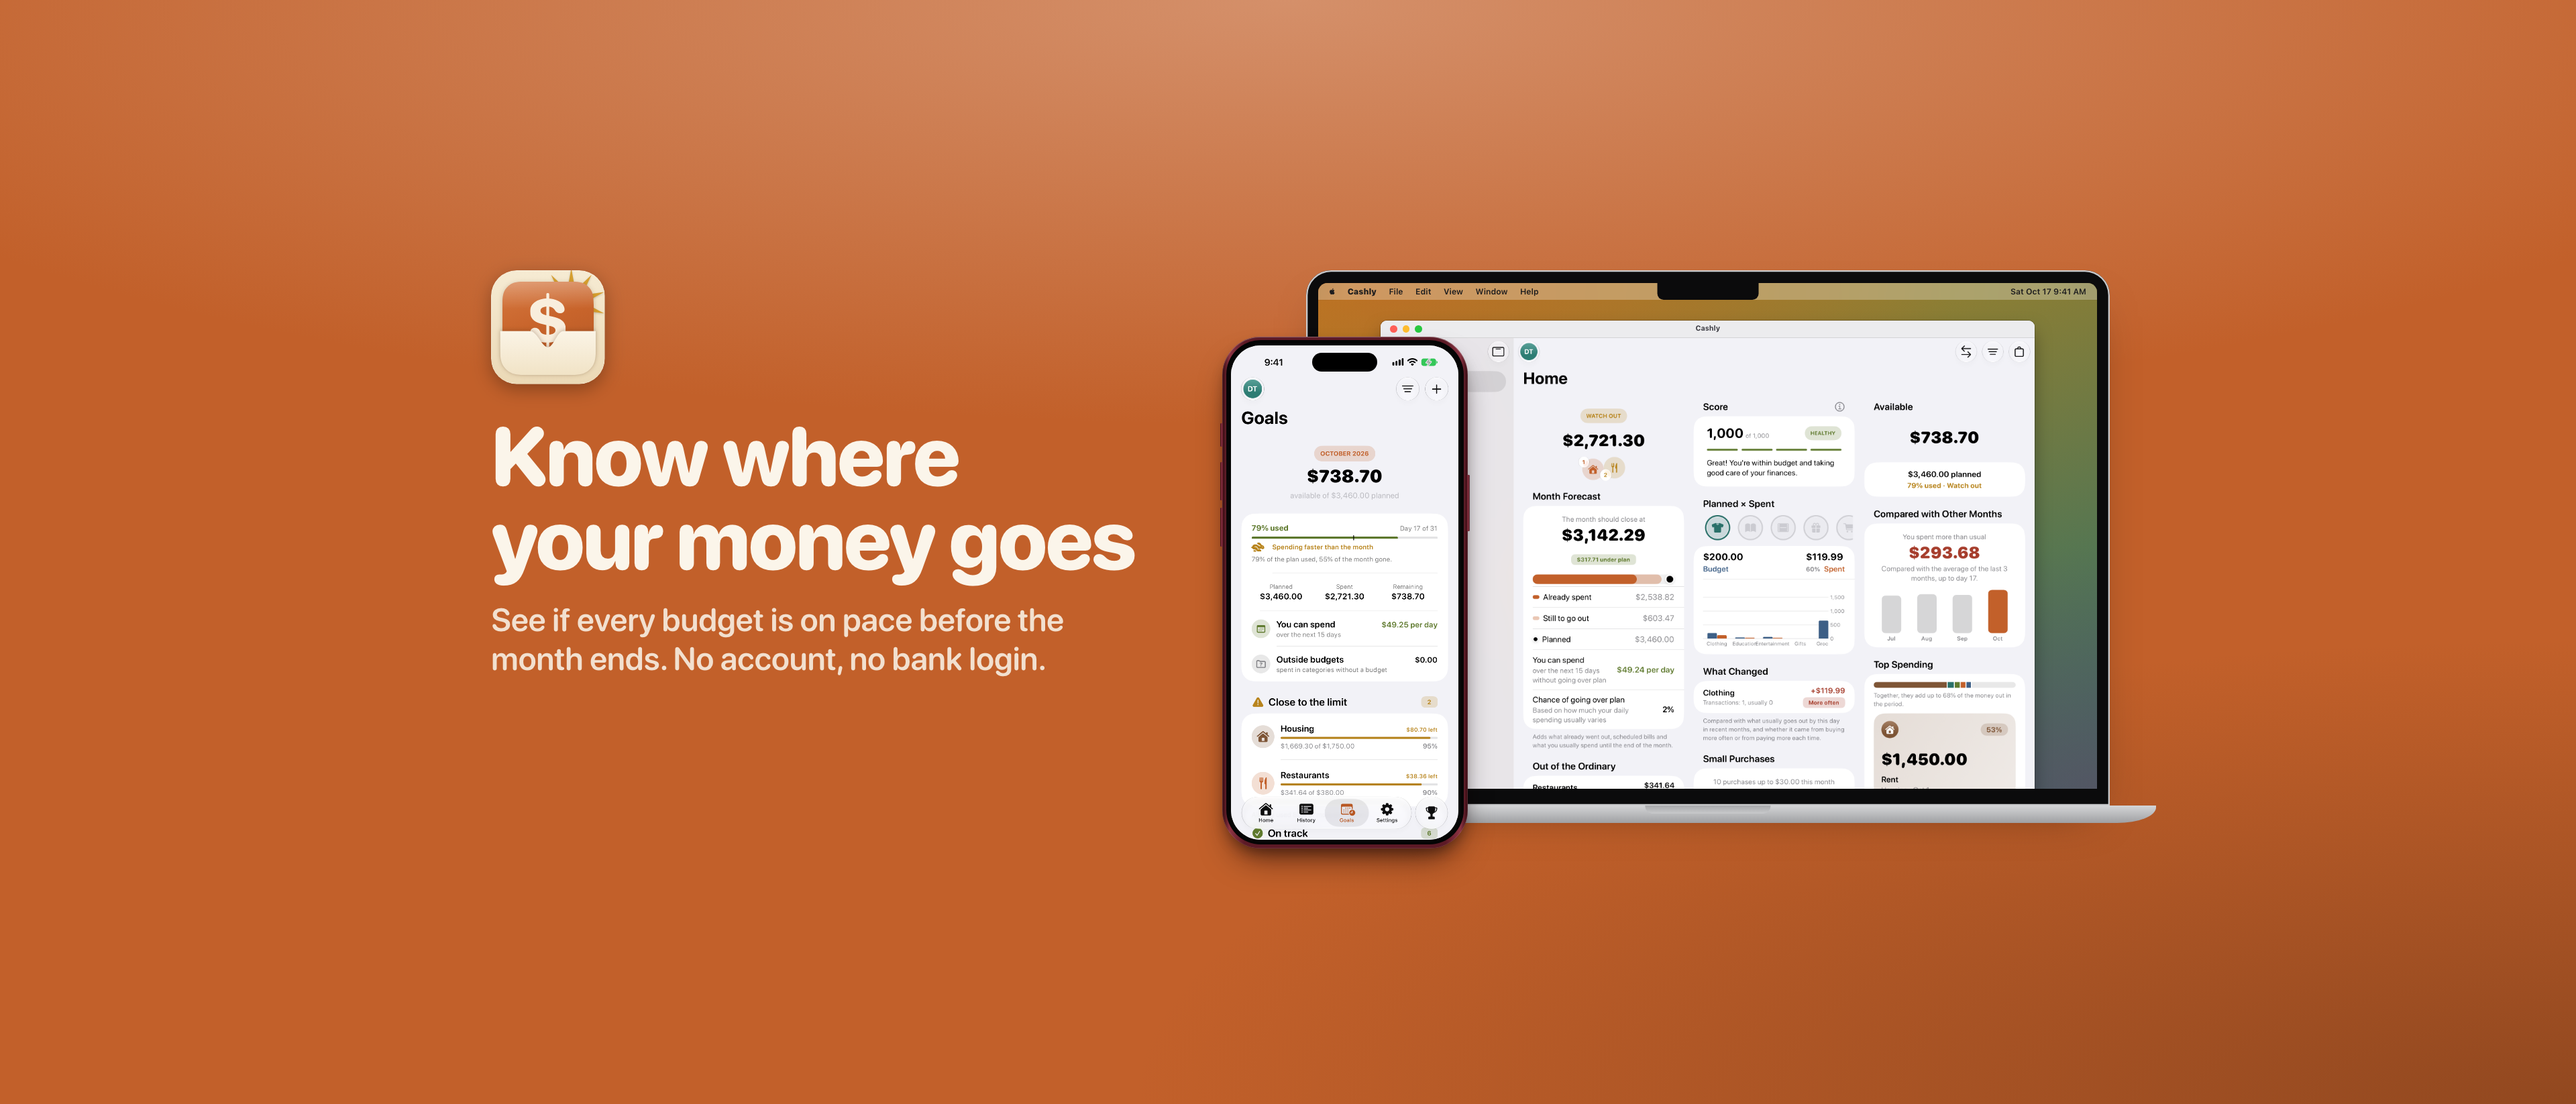
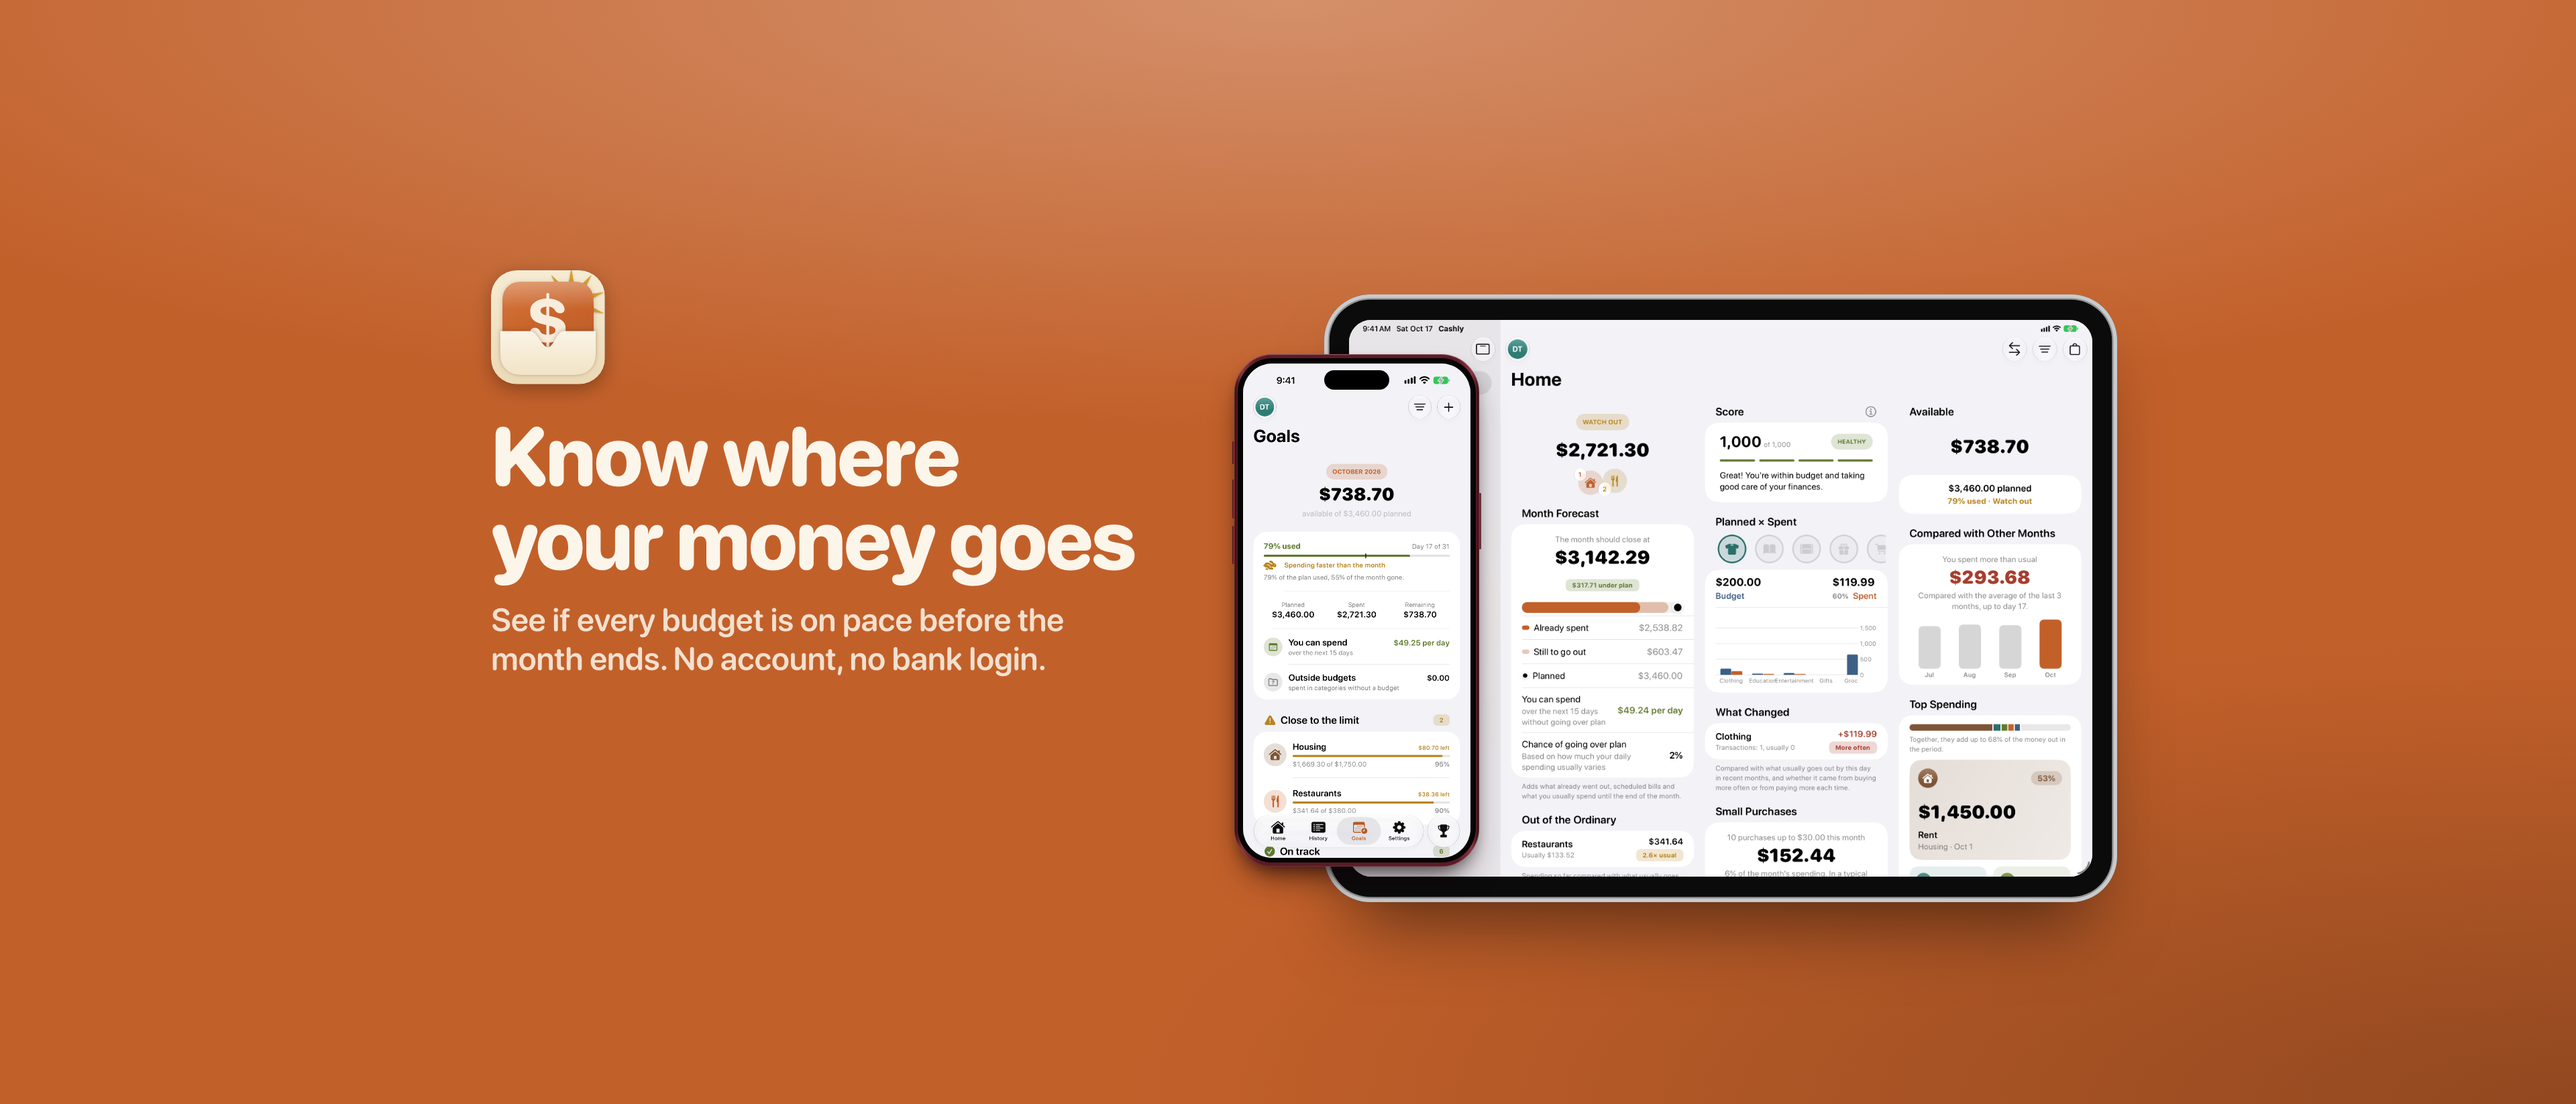
Launch 1.0 on iPhone and iPad: store descriptions, product page header and landing mark Mac and Vision Pro as coming soon

Changed region(s): [[0.4688, 0.2479, 0.8438, 0.8676]]

diff --git a/site/index.html b/site/index.html
@@ -4,7 +4,7 @@
 <meta charset="utf-8">
 <meta name="viewport" content="width=device-width, initial-scale=1">
 <title>Cashly · Know where your money goes before the month ends</title>
-<meta name="description" content="Cashly is the private budget app for iPhone, iPad, Mac and Apple Vision Pro. Budgets with a pace bar, expenses in three taps, forecasts and a Journey for good money habits. No account, no bank login, no ads.">
+<meta name="description" content="Cashly is the private budget app for iPhone and iPad. Budgets with a pace bar, expenses in three taps, forecasts and a Journey for good money habits. No account, no bank login, no ads.">
 <meta name="theme-color" content="#f2f2f7" media="(prefers-color-scheme: light)">
 <meta name="theme-color" content="#000000" media="(prefers-color-scheme: dark)">
 <meta property="og:title" content="Cashly · Know where your money goes before the month ends">
@@ -43,8 +43,7 @@
 <div class="platforms">
 <span class="chip capsule" style="--chip: var(--denim)">iPhone</span>
 <span class="chip capsule" style="--chip: var(--teal)">iPad</span>
-<span class="chip capsule" style="--chip: var(--plum)">Mac</span>
-<span class="chip capsule" style="--chip: var(--brown)">Apple Vision Pro</span>
+<span class="chip capsule" style="--chip: var(--secondary)">Mac and Vision Pro coming soon</span>
 </div>
 </div>
 
@@ -105,18 +104,18 @@
 <section class="values" aria-label="Cashly at a glance">
 <div class="value" style="--accent: var(--denim)"><strong>3 taps</strong><span>to record an expense</span></div>
 <div class="value" style="--accent: var(--olive)"><strong>0 servers</strong><span>your data lives in your iCloud</span></div>
-<div class="value" style="--accent: var(--plum)"><strong>4 platforms</strong><span>iPhone, iPad, Mac and Vision Pro</span></div>
+<div class="value" style="--accent: var(--plum)"><strong>iPhone + iPad</strong><span>Mac and Vision Pro coming soon</span></div>
 <div class="value" style="--accent: var(--mustard)"><strong>10 languages</strong><span>and any currency</span></div>
 </section>
 
 <section class="everywhere" id="devices">
 <div class="section-head">
 <span class="eyebrow" style="--accent: var(--plum)">Every screen</span>
-<h2>Made for iPhone, iPad, Mac and Apple Vision Pro.</h2>
-<p class="lead">Your months follow you through your own iCloud. On iPad and Mac, details open beside the list instead of covering it.</p>
+<h2>Made for iPhone and iPad. Mac and Vision Pro are next.</h2>
+<p class="lead">Your months follow you through your own iCloud. On iPad, details open beside the list instead of covering it, and the Mac app works the same way when it arrives.</p>
 </div>
 <div class="devices">
-<div class="macbook" role="img" aria-label="Cashly on Mac with a transaction open in the inspector">
+<div class="macbook" role="img" aria-label="Cashly for Mac, coming soon, with a transaction open in the inspector">
 <div class="mac-lid">
 <div class="mac-display">
 <div class="menubar" aria-hidden="true"><span><b>Cashly</b><span>File</span><span>Edit</span><span>View</span><span>Window</span><span>Help</span></span><span>Sat Oct 17  9:41 AM</span></div>
@@ -348,7 +347,7 @@
 <h3>Your money is nobody else's business.</h3>
 <p class="lead">There is no Cashly server holding your data and no bank password to hand over. Nothing to sign up for, nothing to leak.</p>
 <ul class="points">
-<li>Sync across iPhone, iPad, Mac and Apple Vision Pro with your own iCloud</li>
+<li>Sync across your iPhone and iPad with your own iCloud</li>
 <li>Export a backup or a spreadsheet anytime, free</li>
 <li>Face ID lock and a discreet mode that blurs amounts</li>
 </ul>
@@ -517,7 +516,7 @@
 </details>
 <details>
 <summary>Which devices and languages?</summary>
-<p>iPhone, iPad, Mac and Apple Vision Pro, in English, Portuguese, Spanish, German, French, Italian, Japanese, Korean, Chinese and Russian, with any currency.</p>
+<p>iPhone and iPad today, with Mac and Apple Vision Pro coming soon. In English, Portuguese, Spanish, German, French, Italian, Japanese, Korean, Chinese and Russian, with any currency.</p>
 </details>
 </div>
 </section>
@@ -526,7 +525,7 @@
 <img class="icon-light" src="/assets/icon.png" alt="">
 <img class="icon-dark" src="/assets/icon-dark.png" alt="">
 <h2>Make this the month you know.</h2>
-<p class="lead">Free on the App Store for iPhone, iPad, Mac and Apple Vision Pro.</p>
+<p class="lead">Free on the App Store for iPhone and iPad.</p>
 <div class="actions">
 <a class="button" href="https://apps.apple.com/app/id6821986667">Download on the App Store</a>
 </div>

diff --git a/docs/app-store/media/source/compose.py b/docs/app-store/media/source/compose.py
@@ -263,10 +263,9 @@ def header(size):
         f"<h1 style='font-size:{138 * unit:.0f}px'>Know where your money goes</h1>"
         f"<p style='font-size:{54 * unit:.0f}px'>See if every budget is on pace before the month ends. No account, no bank login.</p></div>"
     )
-    mac_width = 1300 * unit
-    mac_left = width / 2 + 30 * unit
-    body += macbook("ipad/landscape-home.png", mac_left, middle - 470 * unit, mac_width, mac_width * 0.84)
-    body += iphone("iphone/goals.png", mac_left - 140 * unit, middle - 360 * unit, 380 * unit)
+    ipad_left = width / 2 + 60 * unit
+    body += ipad("ipad/landscape-home.png", ipad_left, middle - 430 * unit, 1240 * unit)
+    body += iphone("iphone/goals.png", ipad_left - 150 * unit, middle - 330 * unit, 380 * unit)
     return page(size, "var(--orange)", body)
 
 
@@ -284,7 +283,7 @@ def build(device, slides, folder, builder):
 
 def main():
     parser = argparse.ArgumentParser()
-    parser.add_argument("targets", nargs="*", default=["iphone", "ipad", "mac", "vision", "header"])
+    parser.add_argument("targets", nargs="*", default=["iphone", "ipad", "header"])
     args = parser.parse_args()
     if "iphone" in args.targets:
         build("iphone", [(*s[:5], "iphone/" + s[5], [("iphone/" + c[0], *c[1:]) for c in s[6]]) for s in IPHONE], "iphone", iphone_slide)

diff --git a/docs/decisions.md b/docs/decisions.md
@@ -841,3 +841,9 @@ Registro das decisões que moldam o código, em ordem. Cada entrada diz o que fo
 
 - **Schema gerado pelo `initializeCloudKitSchema()`** e não à mão no console: `CashlyDatabase.initializeCloudSchema()` (só em DEBUG) monta o `NSManagedObjectModel` a partir de `CashlySchemaV6.models`, abre um `NSPersistentCloudKitContainer` num arquivo temporário, inicializa o schema de desenvolvimento e apaga o arquivo. O app chama com o argumento `-CashlyInitializeCloudSchema`, fora do simulador. Foi o caminho documentado pela Apple para SwiftData e evita erro de tipo em 9 entidades.
 - **Publicação em produção feita pelo usuário,** por ser irreversível.
+
+## 17/10/2026: 1.0 só em iPhone e iPad
+
+- **Decisão do usuário:** a 1.0 sai em iPhone e iPad; Mac e Apple Vision Pro entram numa 1.x com capturas reais. Este Mac está no macOS 26.5 (o app exige 27) e não há simulador de visionOS, então as telas dessas plataformas mostravam a interface do iPad, o que a Apple pode recusar.
+- **No App Store Connect:** só a versão de iOS vai para revisão; as de macOS, visionOS e tvOS ficam em preparação. "iPhone e iPad em Macs com Apple silicon" e "no Apple Vision Pro" foram desligados, para a versão de iPad não aparecer nessas plataformas antes das nativas. Gratuito em 174 países, sem a China continental (exige registro ICP).
+- **Textos:** a linha de sincronização da descrição diz "iPhone e iPad" nos 10 idiomas; a landing marca Mac e Vision Pro como "em breve". O cabeçalho da página do produto passou a mostrar iPhone e iPad. As imagens de Mac e Vision saíram do repositório; o `compose.py` continua sabendo gerá-las.

diff --git a/docs/backlog.md b/docs/backlog.md
@@ -13,6 +13,8 @@ O que falta, por prioridade. Itens concluídos saem daqui; o motivo das decisõe
 
 - **[P1] Validar CloudKit em dois aparelhos assinados:** offline e reconexão, referências que chegam em momentos diferentes, conflitos concorrentes, exclusões e troca de usuários. Só dá para fazer com dois aparelhos (fica com o usuário); o lado automático está coberto: `scripts/audit.sh`, os `ScenarioTests` e, desde 12/10/2026, a resolução de conflito usa um carimbo monotônico (`max(agora, último visto + 1)`), então uma escolha feita depois de ver a anterior vence mesmo com o relógio atrasado.
 
+- **[P2] Mac e Apple Vision Pro na 1.x.** Capturas reais do app nativo (macOS 27 e simulador ou aparelho de visionOS; `python3 docs/app-store/media/source/compose.py mac vision`), revisão visual dessas plataformas e envio das versões de macOS e visionOS que já existem no App Store Connect. Ao lançar, religar nada: as versões nativas substituem a de iPad.
+
 ## Desempenho e dados
 
 - **[P3] Adiar conta em outra moeda.** `IntentActions.postpone` muda a data e mantém a cotação da data original. Buscar a cotação da nova data ou avisar.
